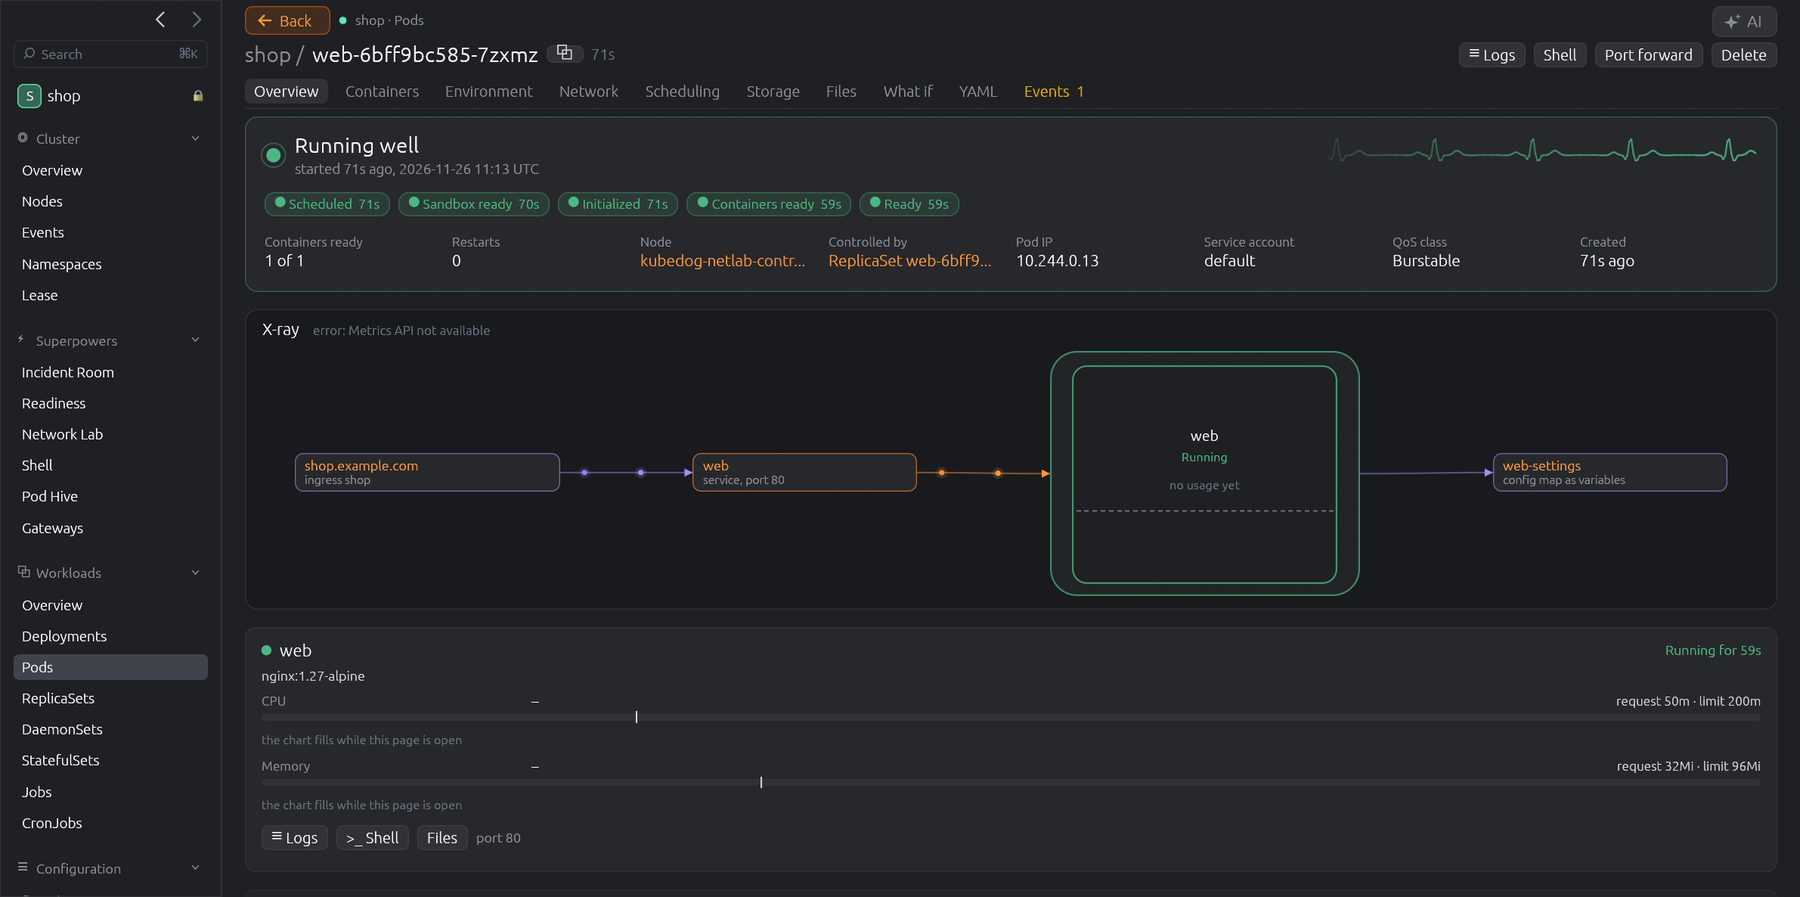
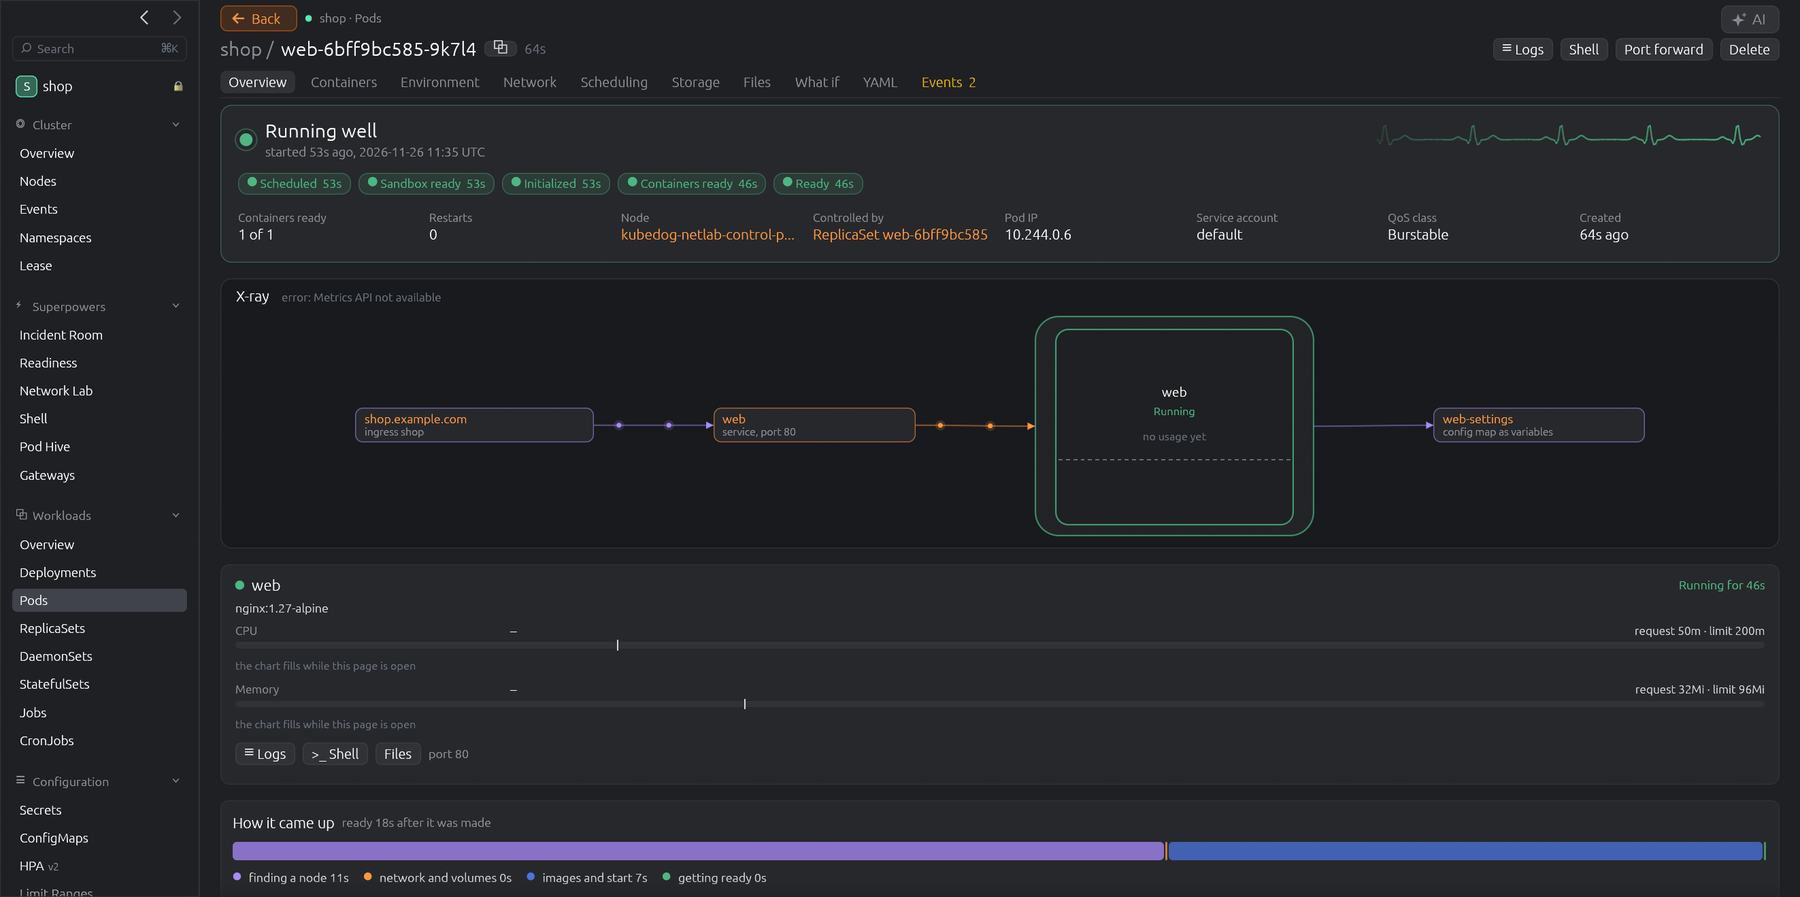
README: dark pictures, and a section on the superpowers

diff --git a/README.md b/README.md
@@ -14,8 +14,8 @@ A fast desktop app for Kubernetes clusters, for macOS, Windows and Linux. It tal
 - **Every cluster starts protected.** Nothing is scaled, deleted or restarted until you unlock that cluster and
   confirm, and the confirmation says which cluster it acts on.
 - **Several clusters side by side**, each with its own colour in every list.
-- **Superpowers for what runs in a cluster:** Argo CD, OpenShift, Postgres, Elasticsearch, Proxmox and more get
-  pages of their own, found by themselves.
+- **Superpowers:** pages that answer a question (what changed, is the network well, can this be upgraded), and pages
+  for what runs in a cluster, such as Argo CD, OpenShift and Postgres. See [below](#superpowers).
 - **Works without internet.** Nothing is downloaded after installing, there's no update check and no statistics.
 - **AI help only if you want it.** It's off until you switch it on, and you decide what may be sent and where.
 
@@ -27,9 +27,32 @@ Everything it does is in [docs/FEATURES.md](docs/FEATURES.md).
 |---|---|
 | ![The list of pods](docs/images/pods.png) Lists of every kind, with filters, columns you choose and actions on each row. | ![A pod's page](docs/images/pod.png) A pod's page: whether it's well, what it talks to, and how it came up. |
 
-![Incident Room: what changed, newest first](docs/images/incident.png)
+## Superpowers
 
-The Incident Room: what changed in the cluster, newest first. The pictures show a made-up cluster.
+Pages that answer a question instead of listing objects. They have their own section in the sidebar, and each can
+be set to Auto, On or Off in Settings; Off reads nothing for it.
+
+| | |
+|---|---|
+| ![Incident Room](docs/images/incident.png) **Incident Room:** what changed, why it's broken, errors in logs, can A reach B, comparing clusters and drift from Git. | ![Pod Hive](docs/images/hive.png) **Pod Hive:** a honeycomb of pods, filled as far as each uses its memory or CPU limit, with what's close to the edge and what asks for far more than it uses. |
+| ![Readiness](docs/images/readiness.png) **Readiness:** before an upgrade or a drain: what stands in the way, what expires, who may do what, what's wasted. | ![Network Lab](docs/images/netlab.png) **Network Lab:** is the network well, from what the cluster says itself, with tests from this computer or from a pod, and a look at packets. |
+
+![Shell](docs/images/shell.png)
+
+**Shell:** full-size terminals, each set up for one cluster, with ready commands for the tools you have. On a
+protected cluster, zsh and bash ask before a command that changes something.
+
+Found by themselves when a cluster has them:
+
+- **Argo CD**, Flux and Tekton
+- **OpenShift:** updates, known risks and what's in the way
+- **Postgres** (CloudNativePG), **Elasticsearch** (ECK) and **Pulsar**
+- External Secrets and Vault, cert-manager, KEDA, Kyverno and Gatekeeper, Crossplane
+- Rook Ceph and Longhorn, Velero and Kasten backups, Prometheus, GPUs, gateways and routes
+- Strimzi, Redis, MongoDB, RabbitMQ, MetalLB and Keycloak
+- **Proxmox** (optional): the hosts and virtual machines under the cluster
+
+The pictures show a made-up cluster.
 
 ## Install
 
